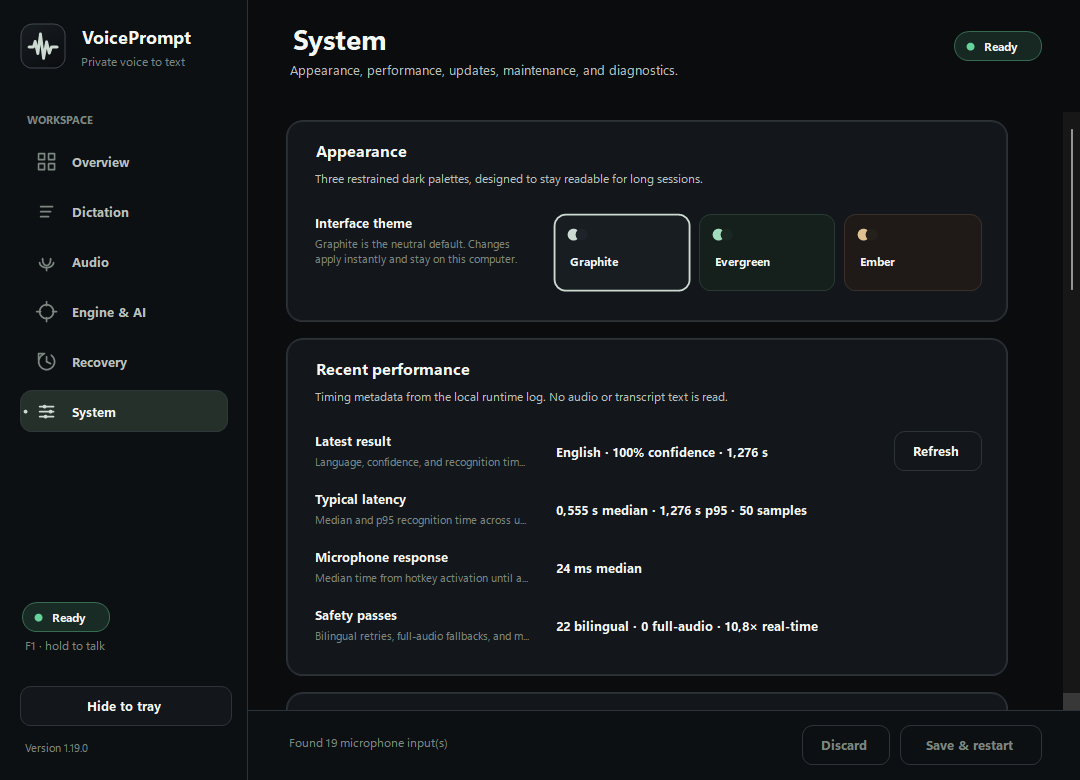
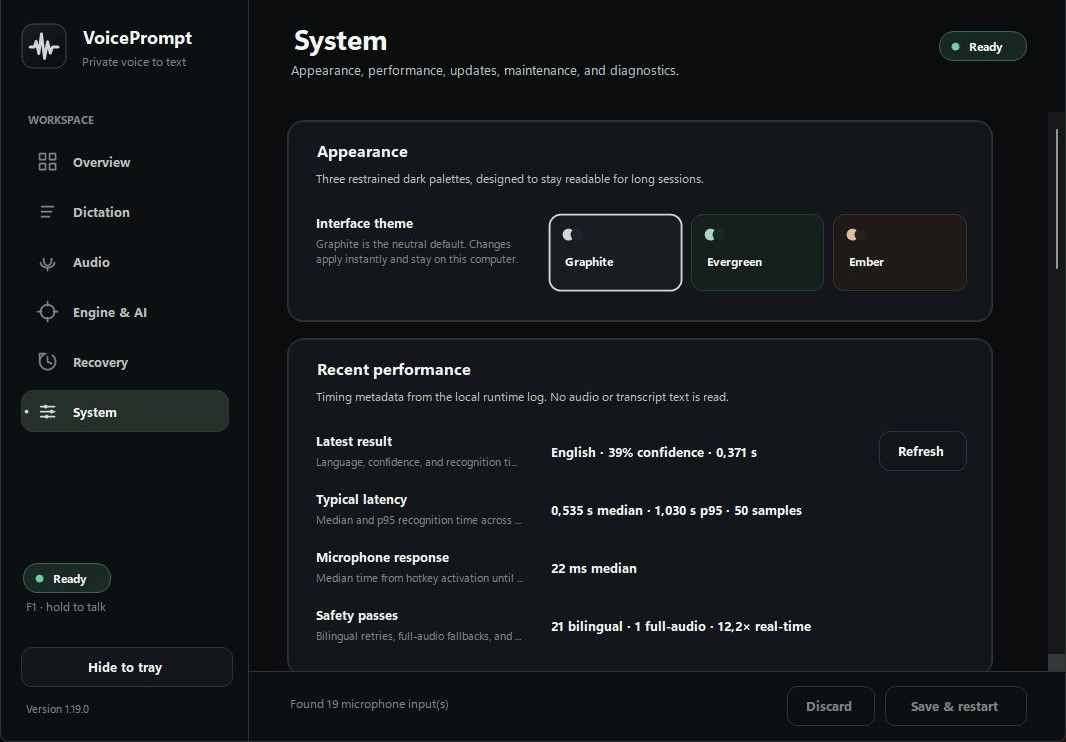
chore(release): prepare 1.19.1

diff --git a/docs/index.html b/docs/index.html
@@ -82,7 +82,7 @@
             <span class="window-actions"><i>—</i><i>□</i><i>×</i></span>
           </div>
           <div class="window-canvas">
-            <img src="assets/app-overview.png" alt="VoicePrompt Overview showing runtime status, hotkey, language, microphone, and recognition setup" width="1080" height="780">
+            <img src="assets/app-overview.png" alt="VoicePrompt Overview showing runtime status, hotkey, language, microphone, and recognition setup" width="1066" height="742">
           </div>
         </div>
         <div class="recording-preview">
@@ -205,9 +205,9 @@
       <div class="interface-showcase reveal" data-interface-showcase>
         <div class="interface-tabs" role="tablist" aria-label="VoicePrompt interface views">
           <button type="button" role="tab" aria-controls="interface-panel" aria-selected="true" data-shot="assets/app-overview.png" data-alt="VoicePrompt Overview with readiness and setup cards" data-title="Readiness at a glance" data-copy="Confirm the runtime, hotkey, microphone, language, and recognition engine from one screen.">Overview</button>
-          <button type="button" role="tab" aria-controls="interface-panel" aria-selected="false" tabindex="-1" data-shot="assets/app-languages.png" data-alt="VoicePrompt language profile with French selected from the 100-language catalog" data-title="100 language profiles" data-copy="Search and pin any Whisper language, then export its context, hotwords, and corrections as a portable profile.">Languages</button>
-          <button type="button" role="tab" aria-controls="interface-panel" aria-selected="false" tabindex="-1" data-shot="assets/app-writing.png" data-alt="VoicePrompt Intelligence page with Verbatim, Clean, Grammar, and Prompt writing modes" data-title="Local first, optional intelligence" data-copy="Verbatim adds no provider delay. Clean, Grammar, and Prompt are explicit text-only options with strict fallback.">Writing modes</button>
-          <button type="button" role="tab" aria-controls="interface-panel" aria-selected="false" tabindex="-1" data-shot="assets/app-system.png" data-alt="VoicePrompt System page showing Graphite, Evergreen, and Ember themes" data-title="A calmer interface, your way" data-copy="Switch instantly between three restrained dark palettes. The choice is local and independent of dictation settings.">Themes</button>
+          <button type="button" role="tab" aria-controls="interface-panel" aria-selected="false" tabindex="-1" data-shot="assets/app-languages.png" data-alt="VoicePrompt Dictation page with automatic English and Slovenian detection plus an additional-language catalog" data-title="100 language profiles" data-copy="Keep fast English + Slovenian Auto as the default, or add any of Whisper's 98 other languages with portable context and corrections.">Languages</button>
+          <button type="button" role="tab" aria-controls="interface-panel" aria-selected="false" tabindex="-1" data-shot="assets/app-writing.png" data-alt="VoicePrompt Engine and AI page with Verbatim, Clean, Grammar, and Prompt writing modes" data-title="Local first, optional intelligence" data-copy="Verbatim adds no provider delay. Clean, Grammar, and Prompt are explicit text-only options with strict fallback.">Writing modes</button>
+          <button type="button" role="tab" aria-controls="interface-panel" aria-selected="false" tabindex="-1" data-shot="assets/app-system.png" data-alt="VoicePrompt System page showing Graphite, Evergreen, and Ember themes with local performance diagnostics" data-title="A calmer interface, your way" data-copy="Switch instantly between three restrained dark palettes and inspect local latency, microphone response, and safety passes.">Themes</button>
         </div>
         <div class="interface-stage" id="interface-panel" role="tabpanel">
           <div class="shot-window">
@@ -215,7 +215,7 @@
               <span class="window-title"><img src="assets/mark.svg" alt="" width="18" height="18"> VoicePrompt</span>
               <span class="window-actions"><i>—</i><i>□</i><i>×</i></span>
             </div>
-            <img src="assets/app-overview.png" alt="VoicePrompt Overview with readiness and setup cards" width="1080" height="780" data-interface-image>
+            <img src="assets/app-overview.png" alt="VoicePrompt Overview with readiness and setup cards" width="1066" height="742" data-interface-image>
           </div>
         </div>
         <div class="interface-caption" aria-live="polite">

diff --git a/scripts/ai_rewriter.py b/scripts/ai_rewriter.py
@@ -120,7 +120,7 @@ class AiRewriter:
     def __init__(self, config_path: str | Path | None = None):
         self.settings = _load_settings(Path(config_path) if config_path else _default_config_path())
         self.session = requests.Session()
-        self.session.headers.update({"User-Agent": "VoicePrompt/1.19.0"})
+        self.session.headers.update({"User-Agent": "VoicePrompt/1.19.1"})
         self._lock = threading.Lock()
         self.last_error = ""
         self.last_latency_ms = 0

diff --git a/CHANGELOG.md b/CHANGELOG.md
@@ -1,5 +1,19 @@
 # Changelog
 
+## [1.19.1] - 2026-08-12
+
+### Changed
+
+- Keep the zero-extra-pass path for normal English and Slovenian recordings while preserving supported-language recovery for genuinely unsupported detections.
+- Refresh the product site's interface gallery with clean captures of the current Overview, Dictation, Engine & AI, and System workspaces.
+
+### Fixed
+
+- Never replace a detected English recording with a Slovenian decode, or detected Slovenian with English, based on incomparable transcript decoder scores.
+- Recover unsupported language guesses using the English/Slovenian language probabilities with recent-language smoothing, without allowing that recovery to override a supported detection.
+- Reject physically implausible transcript expansion and repetitive hallucinations; attempt one same-language recovery before refusing to paste unsafe output.
+- Lock the canonical runtime patch, installed migration, and exact low-confidence English and repetition regressions to the same tested behavior.
+
 ## [1.19.0] - 2026-08-12
 
 ### Added

diff --git a/README.md b/README.md
@@ -69,7 +69,7 @@ Measured on an RTX 5080:
 
 Requirements: **64-bit Windows 11**, **Python 3.10+**, an **NVIDIA GPU with a current driver**, and roughly **10 GB of free disk space** for the runtime and model.
 
-1. Open the [latest VoicePrompt release](https://github.com/seNkoKG/VoicePrompt/releases/latest) and download `VoicePrompt-v1.19.0-windows-x64.zip`.
+1. Open the [latest VoicePrompt release](https://github.com/seNkoKG/VoicePrompt/releases/latest) and download `VoicePrompt-v1.19.1-windows-x64.zip`.
 2. Extract the ZIP, open PowerShell in that folder, and run:
 
 ```powershell
